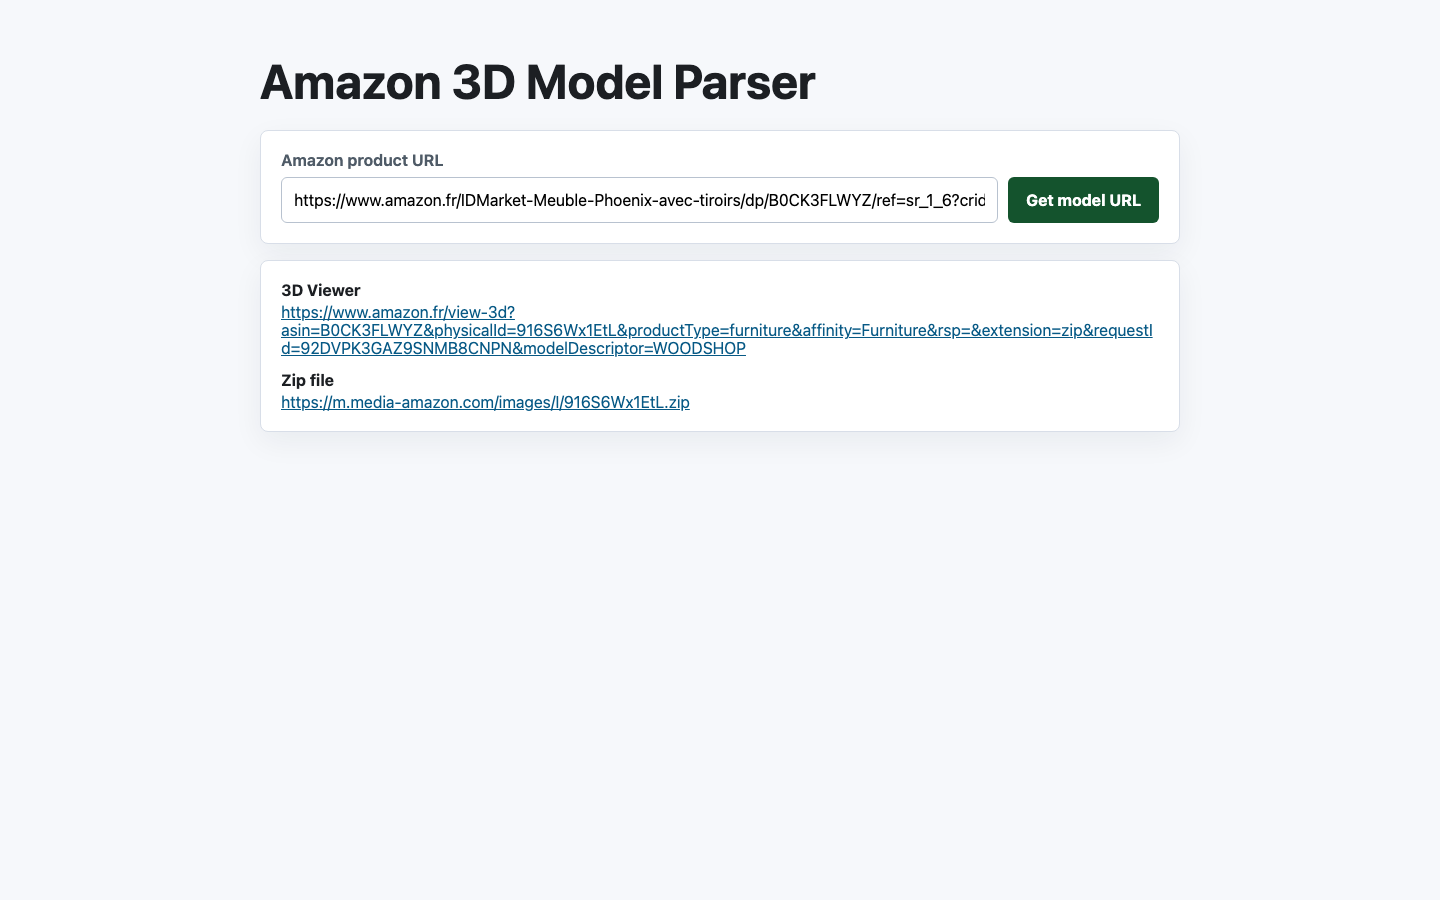
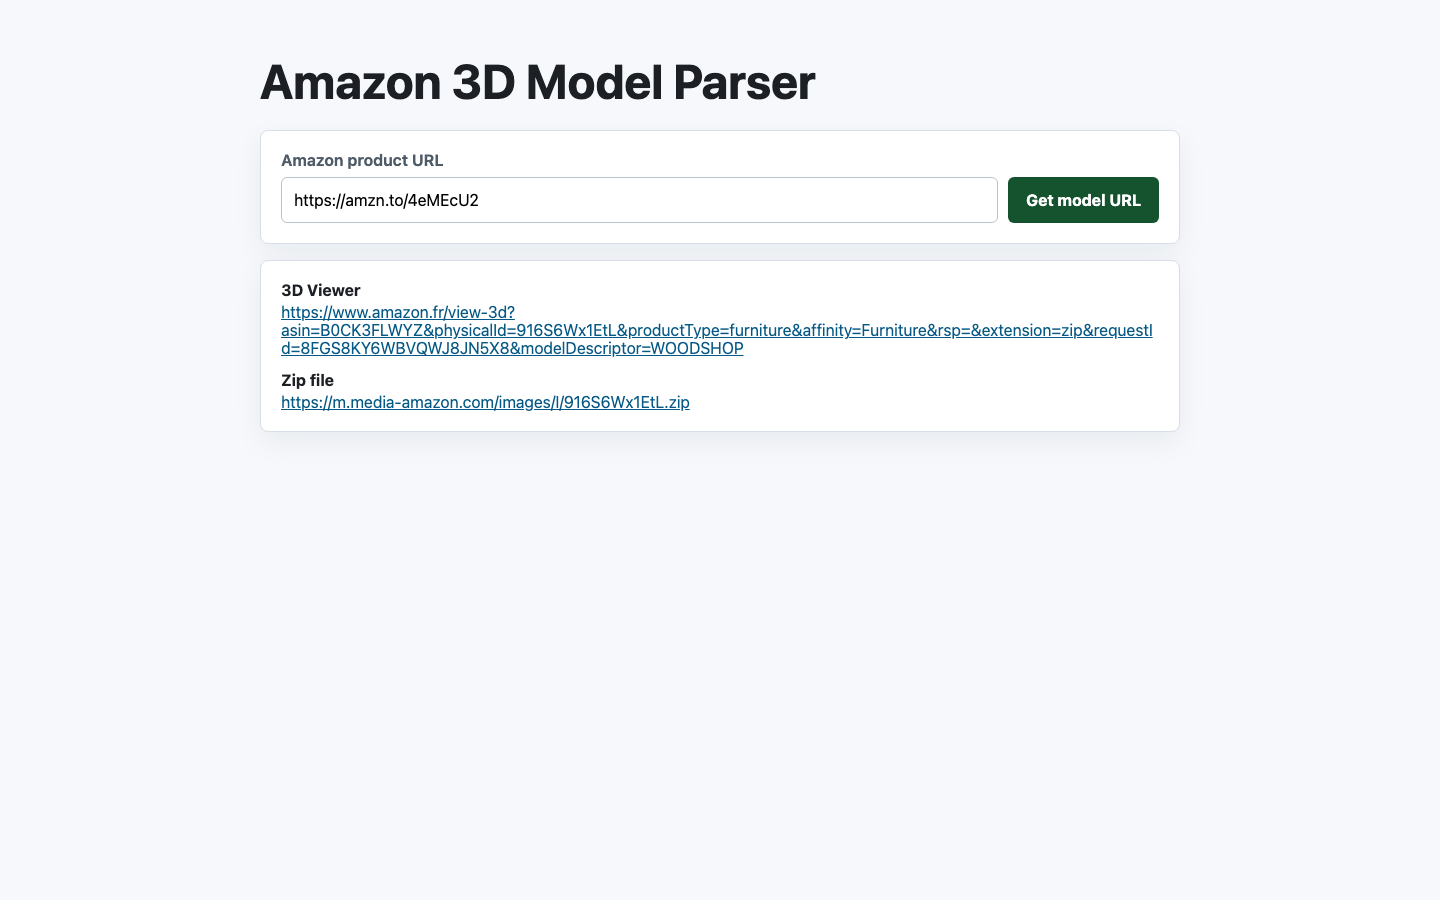
Accept Amazon short links

Changed region(s): [[0.25, 0.2178, 0.6875, 0.2489], [0.2188, 0.3733, 0.5312, 0.4044]]

diff --git a/docs/26-06-26-amazon-3d-model-parser.html b/docs/26-06-26-amazon-3d-model-parser.html
@@ -15,6 +15,7 @@
         <ul>
             <li>Découpage de la logique PHP en classes courtes dans <code>src/</code>.</li>
             <li>Validation URL Amazon centralisée dans <code>AmazonProductUrl</code>.</li>
+            <li>Support des shortlinks <code>https://amzn.to/...</code> avec validation de la destination finale Amazon.</li>
             <li>Client cURL isolé dans <code>AmazonPageClient</code>.</li>
             <li>Parsing des liens <code>/view-3d</code> et génération URL zip dans <code>ModelLinkParser</code>.</li>
             <li>UI nettoyée dans <code>index.php</code>, CSS externe dans <code>assets/css/home-light.css</code>.</li>
@@ -29,9 +30,11 @@
         <h2>Tests</h2>
         <ul>
             <li><code>composer test</code>: OK, 6 tests, 14 assertions.</li>
+            <li><code>composer test</code> après support shortlink: OK, 8 tests, 19 assertions.</li>
             <li><code>php -l</code> sur tous fichiers PHP hors vendor: OK.</li>
             <li><code>npm run test:browserless</code>: OK desktop + mobile.</li>
             <li>URL testée: <code>https://www.amazon.fr/IDMarket-Meuble-Phoenix-avec-tiroirs/dp/B0CK3FLWYZ/...</code></li>
+            <li>Shortlink testé: <code>https://amzn.to/4eMEcU2</code></li>
             <li>Viewer trouvé: <code>https://www.amazon.fr/view-3d?asin=B0CK3FLWYZ&amp;physicalId=916S6Wx1EtL&amp;productType=furniture&amp;affinity=Furniture&amp;rsp=&amp;extension=zip&amp;modelDescriptor=WOODSHOP</code></li>
             <li>Zip trouvé: <code>https://m.media-amazon.com/images/I/916S6Wx1EtL.zip</code></li>
         </ul>
@@ -51,6 +54,7 @@
             <li><code>index.php</code></li>
             <li><code>src/AmazonProductUrl.php</code></li>
             <li><code>src/AmazonPageClient.php</code></li>
+            <li><code>src/FetchResult.php</code></li>
             <li><code>src/ModelLinkParser.php</code></li>
             <li><code>assets/css/home-light.css</code></li>
             <li><code>tests/</code></li>
@@ -61,6 +65,7 @@
         <h2>Risques</h2>
         <ul>
             <li>Amazon peut changer HTML, headers nécessaires ou bloquer requêtes serveur.</li>
+            <li>Les shortlinks nécessitent deux requêtes: résolution, puis fetch de la page Amazon finale.</li>
             <li>Le <code>requestId</code> dans URL viewer varie à chaque test.</li>
             <li>Le fichier zip peut être inaccessible si Amazon invalide ou protège le modèle.</li>
         </ul>

diff --git a/tools/browserless-test.js b/tools/browserless-test.js
@@ -1,6 +1,6 @@
 const { chromium } = require('playwright');
 
-const productUrl = process.env.PRODUCT_URL || 'https://www.amazon.fr/IDMarket-Meuble-Phoenix-avec-tiroirs/dp/B0CK3FLWYZ/ref=sr_1_6?crid=1Q1QMCCV3S51L&dib=eyJ2IjoiMSJ9.TReINnO7rGtzG3MW2Rfqx6_BftTELNmr13RSFOjOYQsZVPLM_P7sxv_CcXglHTcX9AcxlxRVqJs_KVgvmmOJj1JW2p3mVV-JKlKzFavQ9sf7XwuZ1QzfAfiQ_C8LEh7dmWWqPNtshk1AL_Forep4jHFkW7LbIbRvKhDeek-Zxl7jxt4YDafD12fRgui63U7VwfoQwT7BV0z2lf3jjYQ4BLN52mi45_MWBigP2hIXL3uHvPtwfNWZvqM5iuTCHSLwOKoP6RxPlq-cW3hMHnJizRSd67AfuA3fQSxfYdWIvhI.Kh325VtXkstEuOAOOVp0kiVQXOPTrM7sR-oACp6S5T4&dib_tag=se&keywords=meuble+tv&qid=1782486501&sprefix=meuble%2Caps%2C316&sr=8-6';
+const productUrl = process.env.PRODUCT_URL || 'https://amzn.to/4eMEcU2';
 const baseUrl = process.env.APP_URL || 'http://127.0.0.1:8080';
 
 const viewports = {

diff --git a/src/AmazonPageClient.php b/src/AmazonPageClient.php
@@ -8,6 +8,20 @@ final class AmazonPageClient
 {
     public function fetch(AmazonProductUrl $url): FetchResult
     {
+        if ($url->isShortUrl()) {
+            $resolvedUrl = $this->resolveShortUrl($url);
+            if ($resolvedUrl === null) {
+                return FetchResult::failure('Short URL did not resolve to an Amazon product page.');
+            }
+
+            $resolvedProductUrl = AmazonProductUrl::fromString($resolvedUrl);
+            if ($resolvedProductUrl === null) {
+                return FetchResult::failure('Short URL did not resolve to an Amazon product page.');
+            }
+
+            return $this->fetch($resolvedProductUrl);
+        }
+
         $curl = curl_init($url->original);
         if ($curl === false) {
             return FetchResult::failure('Could not initialize cURL.');
@@ -29,12 +43,38 @@ final class AmazonPageClient
         }
 
         $statusCode = (int) curl_getinfo($curl, CURLINFO_RESPONSE_CODE);
+        $effectiveUrl = (string) curl_getinfo($curl, CURLINFO_EFFECTIVE_URL);
 
         if ($statusCode >= 400) {
             return FetchResult::failure('Amazon returned HTTP ' . $statusCode . '.');
         }
 
-        return FetchResult::success((string) $body);
+        return FetchResult::success((string) $body, $effectiveUrl);
+    }
+
+    private function resolveShortUrl(AmazonProductUrl $url): ?string
+    {
+        $curl = curl_init($url->original);
+        if ($curl === false) {
+            return null;
+        }
+
+        curl_setopt_array($curl, [
+            CURLOPT_FOLLOWLOCATION => true,
+            CURLOPT_TIMEOUT => 20,
+            CURLOPT_RETURNTRANSFER => true,
+            CURLOPT_USERAGENT => 'Mozilla/5.0 Amazon 3D Model Parser',
+        ]);
+
+        curl_exec($curl);
+        $statusCode = (int) curl_getinfo($curl, CURLINFO_RESPONSE_CODE);
+        $effectiveUrl = (string) curl_getinfo($curl, CURLINFO_EFFECTIVE_URL);
+
+        if ($statusCode >= 400 || !AmazonProductUrl::isAmazonDestination($effectiveUrl)) {
+            return null;
+        }
+
+        return $effectiveUrl;
     }
 
     /**

diff --git a/src/AmazonProductUrl.php b/src/AmazonProductUrl.php
@@ -6,6 +6,8 @@ namespace Amazon3DModelParser;
 
 final readonly class AmazonProductUrl
 {
+    private const SHORT_HOSTS = ['amzn.to'];
+
     public function __construct(
         public string $original,
         public string $scheme,
@@ -30,7 +32,7 @@ final readonly class AmazonProductUrl
             return null;
         }
 
-        $host = self::normalizeHost((string) ($parts['host'] ?? ''));
+        $host = self::normalizeHost((string) ($parts['host'] ?? ''), true);
         if ($host === null) {
             return null;
         }
@@ -48,11 +50,30 @@ final readonly class AmazonProductUrl
         return '.' . preg_replace('/^www\./', '', $this->host);
     }
 
-    private static function normalizeHost(string $host): ?string
+    public function isShortUrl(): bool
+    {
+        return in_array($this->host, self::SHORT_HOSTS, true);
+    }
+
+    public static function isAmazonDestination(string $url): bool
+    {
+        $parts = parse_url($url);
+        if (!is_array($parts)) {
+            return false;
+        }
+
+        return self::normalizeHost((string) ($parts['host'] ?? ''), false) !== null;
+    }
+
+    private static function normalizeHost(string $host, bool $allowShortUrls): ?string
     {
         $host = strtolower(trim($host, ". \t\n\r\0\x0B"));
         if ($host === '') {
             return null;
+        }
+
+        if ($allowShortUrls && in_array($host, self::SHORT_HOSTS, true)) {
+            return $host;
         }
 
         $labels = explode('.', $host);

diff --git a/tests/AmazonProductUrlTest.php b/tests/AmazonProductUrlTest.php
@@ -27,4 +27,19 @@ final class AmazonProductUrlTest extends TestCase
     {
         self::assertNull(AmazonProductUrl::fromString('ftp://www.amazon.fr/dp/B0CK3FLWYZ'));
     }
+
+    public function testAcceptsAmazonShortUrl(): void
+    {
+        $url = AmazonProductUrl::fromString('https://amzn.to/4eMEcU2');
+
+        self::assertNotNull($url);
+        self::assertTrue($url->isShortUrl());
+    }
+
+    public function testValidatesAmazonDestinationWithoutShortHosts(): void
+    {
+        self::assertTrue(AmazonProductUrl::isAmazonDestination('https://www.amazon.fr/dp/B0CK3FLWYZ'));
+        self::assertFalse(AmazonProductUrl::isAmazonDestination('https://amzn.to/4eMEcU2'));
+        self::assertFalse(AmazonProductUrl::isAmazonDestination('https://example.com'));
+    }
 }

diff --git a/src/FetchResult.php b/src/FetchResult.php
@@ -9,17 +9,18 @@ final readonly class FetchResult
     private function __construct(
         public bool $ok,
         public ?string $body,
+        public ?string $effectiveUrl,
         public ?string $error,
     ) {
     }
 
-    public static function success(string $body): self
+    public static function success(string $body, string $effectiveUrl): self
     {
-        return new self(true, $body, null);
+        return new self(true, $body, $effectiveUrl, null);
     }
 
     public static function failure(string $error): self
     {
-        return new self(false, null, $error);
+        return new self(false, null, null, $error);
     }
 }

diff --git a/index.php b/index.php
@@ -25,7 +25,8 @@ if ($_SERVER['REQUEST_METHOD'] === 'POST') {
         if (!$result->ok) {
             $error = 'Request failed: ' . $result->error;
         } else {
-            $modelLink = (new ModelLinkParser())->parse((string) $result->body, $productUrl);
+            $resolvedUrl = AmazonProductUrl::fromString((string) $result->effectiveUrl) ?? $productUrl;
+            $modelLink = (new ModelLinkParser())->parse((string) $result->body, $resolvedUrl);
             $error = $modelLink instanceof ModelLink ? null : 'No 3D model found.';
         }
     }

diff --git a/README.md b/README.md
@@ -43,6 +43,12 @@ Example Amazon URL:
 https://www.amazon.fr/dp/B0CK3FLWYZ
 ```
 
+Amazon short links are accepted too:
+
+```txt
+https://amzn.to/4eMEcU2
+```
+
 ## Tests
 
 Run: